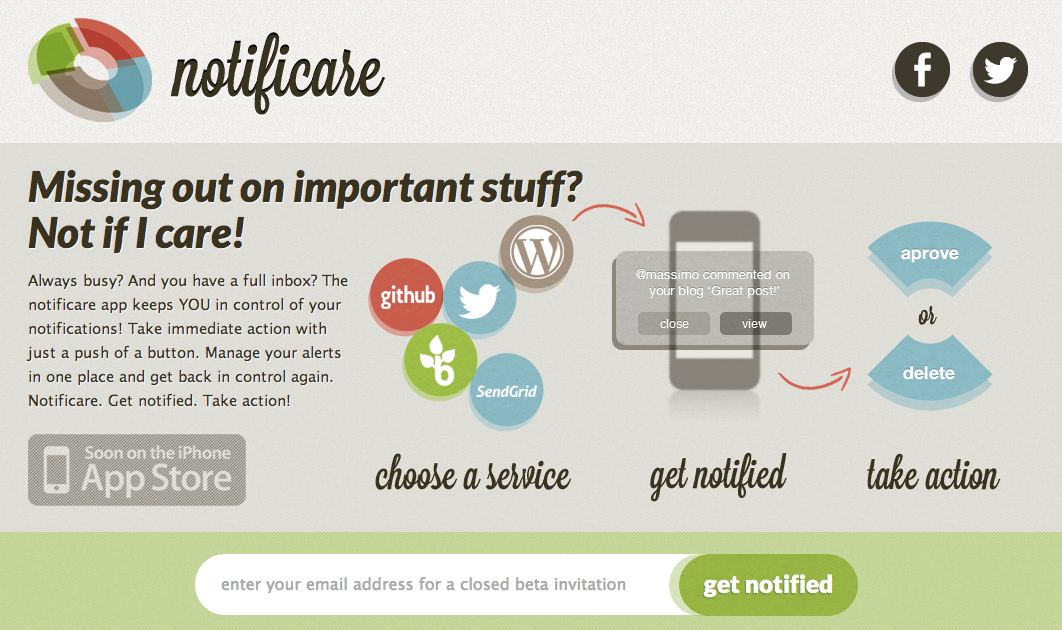
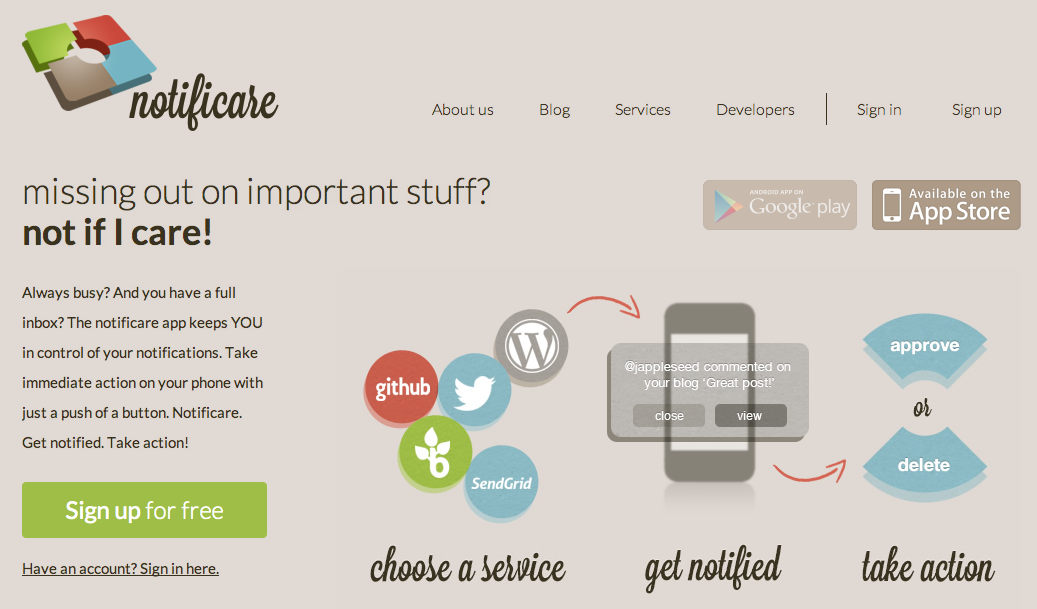
Fixed saving of options Added new screenshot
git-svn-id: https://plugins.svn.wordpress.org/notificare/trunk@595630 b8457f37-d9ea-0310-8a92-e5e31aec5664

diff --git a/classes/notificare/plugin.php b/classes/notificare/plugin.php
@@ -3,7 +3,7 @@
 Plugin Name: Notificare
 Plugin URI: http://notifica.re/apps/wordpress
 Description: Get notified on comments and approve or mark as spam with a simple push of a button from your phone
-Version: 0.4.4
+Version: 0.4.5
 Author: silentjohnny
 License: 
 
@@ -401,21 +401,23 @@ class NotificarePlugin {
 		if ( !current_user_can( 'manage_options' ) )  {
 			wp_die( __( 'You do not have sufficient permissions to access this page.' ) );
 		}
-		if ( isset( $_REQUEST['applicationkey'] ) ) {
-			update_option( self::PLUGIN_NAME . '_applicationkey', $_REQUEST['applicationkey'] );
-		}
-		if ( isset( $_REQUEST['usertoken'] ) ) {
-			update_option( self::PLUGIN_NAME . '_usertoken', $_REQUEST['usertoken'] );
-		}
-		if ( isset( $_REQUEST['permalink'] ) ) {
-			update_option( self::PLUGIN_NAME . '_permalink', $_REQUEST['permalink'] );
-		} else {
-			update_option( self::PLUGIN_NAME . '_permalink', '0' );
-		}
-		if ( isset( $_REQUEST['notify_spam'] ) ) {
-			update_option( self::PLUGIN_NAME . '_notify_spam', $_REQUEST['notify_spam'] );
-		} else {
-			update_option( self::PLUGIN_NAME . '_notify_spam', '0' );
+		if ( isset( $_REQUEST['action'] ) && $_REQUEST['action'] == 'update' ) {
+			if ( isset( $_REQUEST['applicationkey'] ) ) {
+				update_option( self::PLUGIN_NAME . '_applicationkey', $_REQUEST['applicationkey'] );
+			}
+			if ( isset( $_REQUEST['usertoken'] ) ) {
+				update_option( self::PLUGIN_NAME . '_usertoken', $_REQUEST['usertoken'] );
+			}
+			if ( isset( $_REQUEST['permalink'] ) ) {
+				update_option( self::PLUGIN_NAME . '_permalink', $_REQUEST['permalink'] );
+			} else {
+				update_option( self::PLUGIN_NAME . '_permalink', '0' );
+			}
+			if ( isset( $_REQUEST['notify_spam'] ) ) {
+				update_option( self::PLUGIN_NAME . '_notify_spam', $_REQUEST['notify_spam'] );
+			} else {
+				update_option( self::PLUGIN_NAME . '_notify_spam', '0' );
+			}
 		}
 		include( $this->templateDir . '/options.php' );
 	}

diff --git a/notificare-wp-plugin.php b/notificare-wp-plugin.php
@@ -3,7 +3,7 @@
 Plugin Name: Notificare
 Plugin URI: http://notifica.re/services/wordpress
 Description: Get notified on comments and approve or mark as spam with a simple push of a button from your phone. If you don't have a Notificare account yet, <a href="https://notifica.re/sign-up">get one first</a>. Otherwise, go straight to your <a href="https://notifica.re/dashboard/services">Dashboard</a> and create a WordPress service. Then, copy the service key and user token to the <a href="options-general.php?page=notificare_wp_plugin">Notificare Plugin Admin page</a>. 
-Version: 0.4.4
+Version: 0.4.5
 Author: silentjohnny
 License: 
 

diff --git a/classes/notificare/client.php b/classes/notificare/client.php
@@ -3,7 +3,7 @@
 Plugin Name: Notificare
 Plugin URI: http://notifica.re/apps/wordpress
 Description: Get notified on comments and approve or mark as spam with a simple push of a button from your phone
-Version: 0.4.3
+Version: 0.4.5
 Author: silentjohnny
 License: 
 
